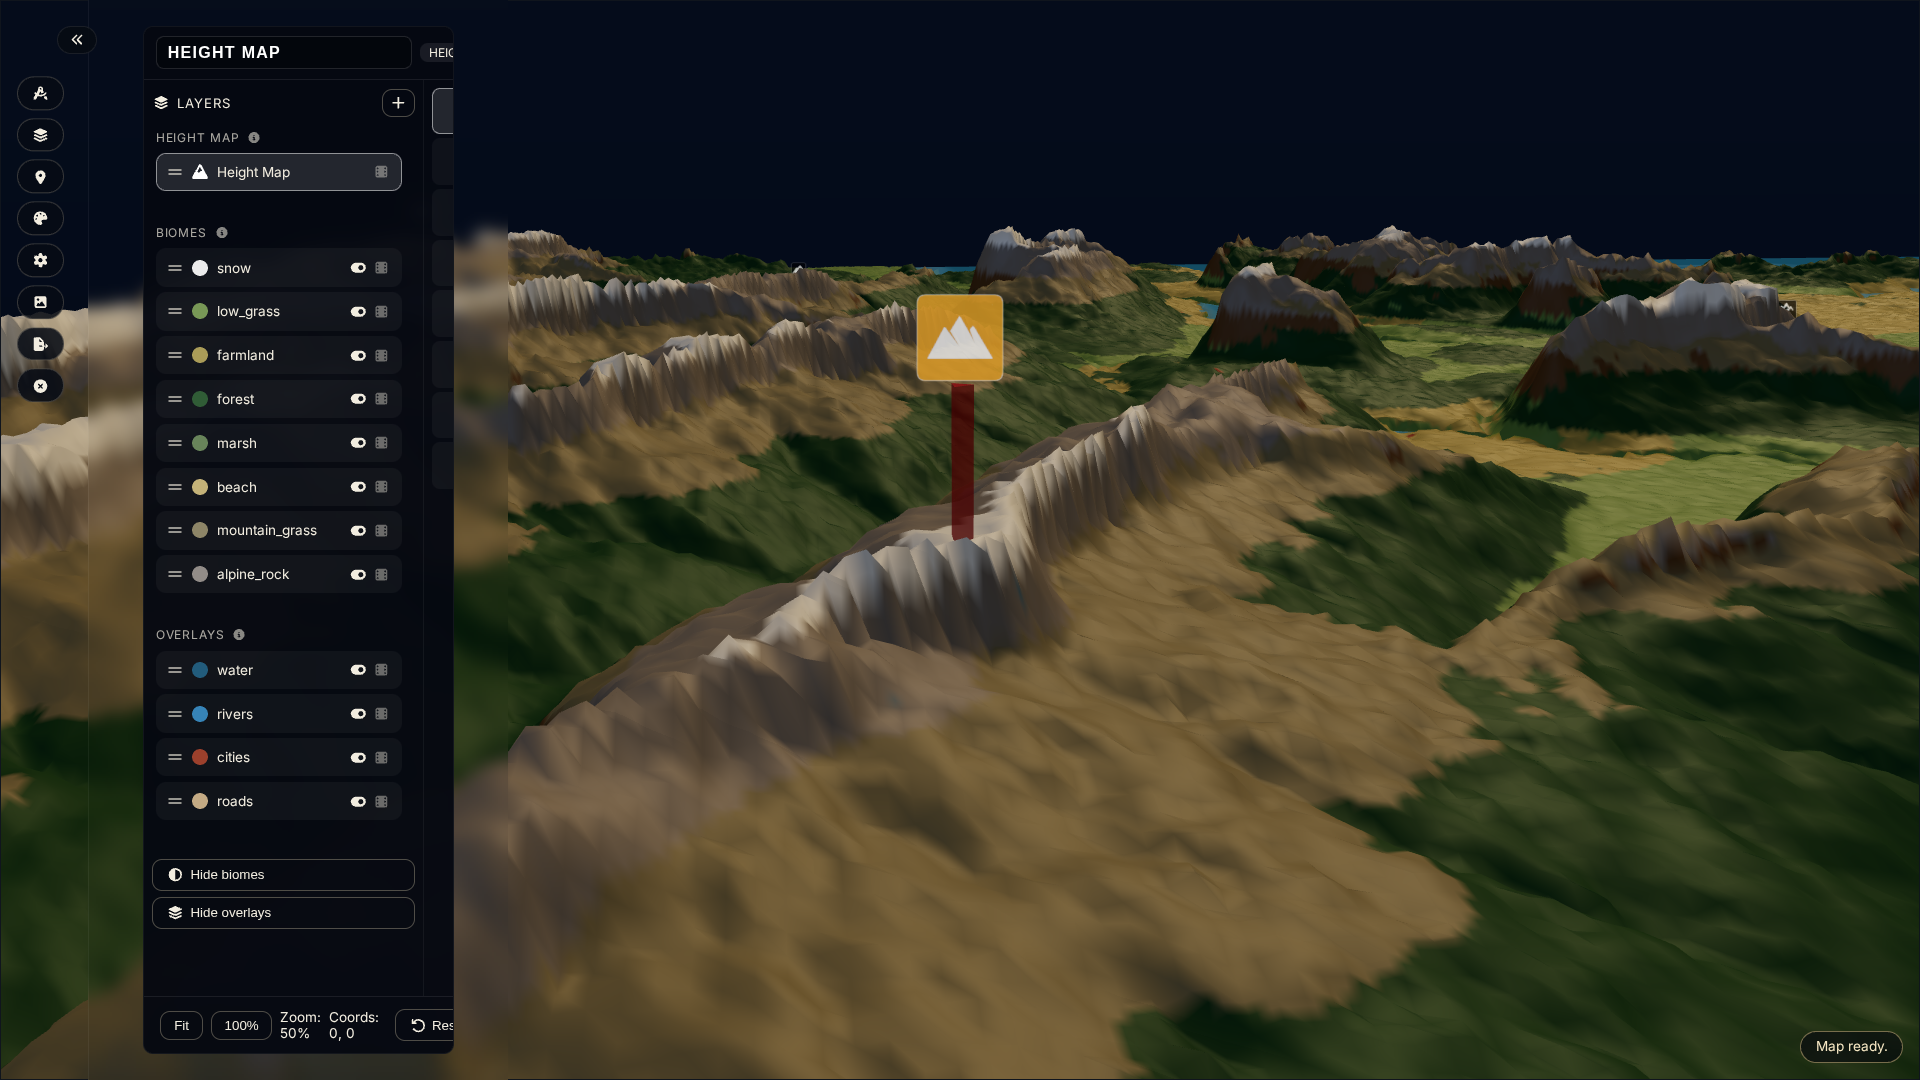
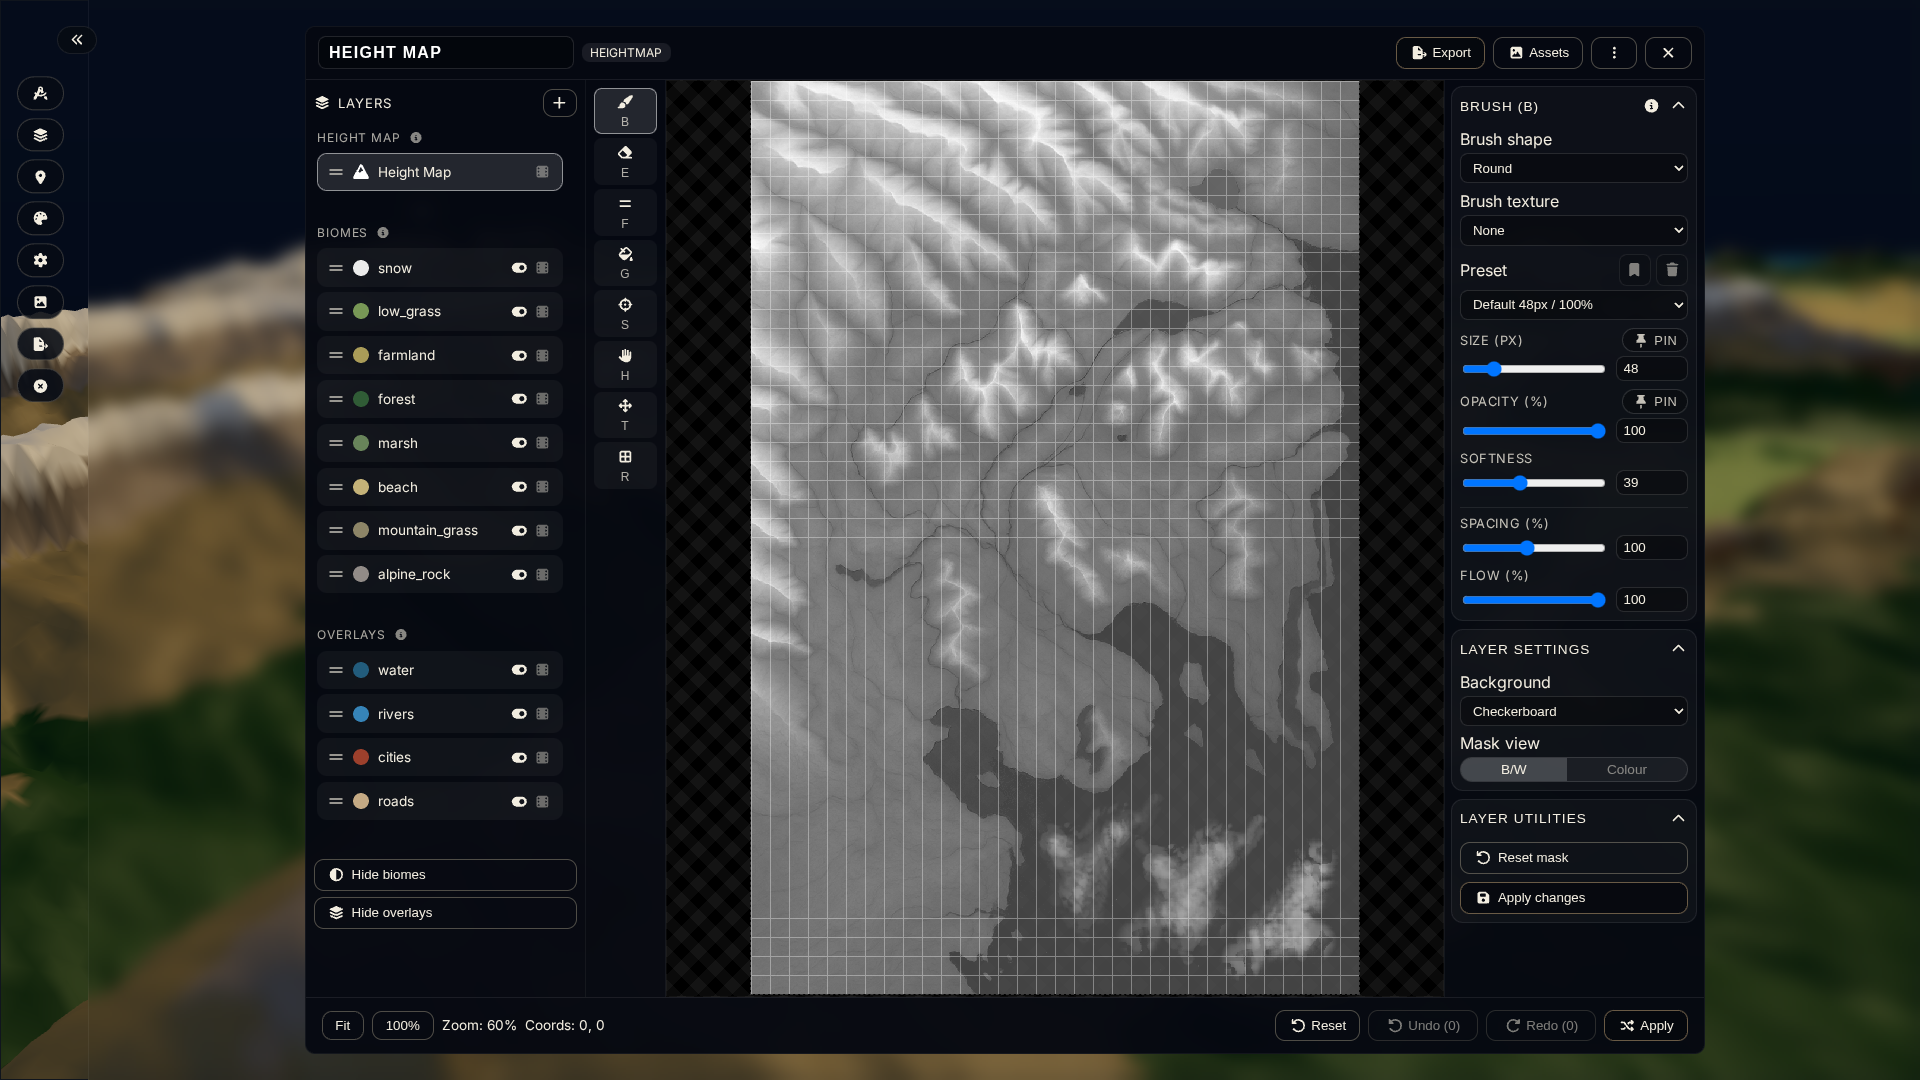
Improve layer editor viewport fitting, padding and layout

diff --git a/editor/src/components/layers/LayerMaskEditor.vue b/editor/src/components/layers/LayerMaskEditor.vue
@@ -388,10 +388,15 @@ const displaySize = computed(() => ({
 }))
 const viewportSize = ref({ width: 0, height: 0 })
 const currentViewState = ref<ViewState>({ zoom: 1, centerX: 0.5, centerY: 0.5 })
-const viewportPadding = computed(() => ({
-  x: viewportSize.value.width / 2,
-  y: viewportSize.value.height / 2
-}))
+
+function computeViewportPadding(width: number, height: number) {
+  return {
+    x: width / 2,
+    y: height / 2
+  }
+}
+
+const viewportPadding = computed(() => computeViewportPadding(viewportSize.value.width, viewportSize.value.height))
 const totalCanvasSize = computed(() => ({
   width: displaySize.value.width + viewportPadding.value.x * 2,
   height: displaySize.value.height + viewportPadding.value.y * 2
@@ -422,10 +427,10 @@ function clampZoom(value: number) {
 }
 
 function getPaddingOffsets() {
-  return {
-    x: viewportPadding.value.x,
-    y: viewportPadding.value.y
-  }
+  const viewport = viewportRef.value
+  const width = viewportSize.value.width || viewport?.clientWidth || 0
+  const height = viewportSize.value.height || viewport?.clientHeight || 0
+  return computeViewportPadding(width, height)
 }
 
 function isViewportReady(target = viewportRef.value) {
@@ -2125,27 +2130,46 @@ function fitView() {
   const viewport = viewportRef.value
   const { width, height } = canvasDimensions.value
   if (!viewport || !width || !height) {
-    zoom.value = 1
-    emit('zoom-change', zoom.value)
+    if (viewport) {
+      requestAnimationFrame(() => fitView())
+    } else {
+      zoom.value = 1
+      emit('zoom-change', zoom.value)
+    }
     return
   }
-  const availableWidth = Math.max(1, viewport.clientWidth)
-  const availableHeight = Math.max(1, viewport.clientHeight)
-  const scaleX = availableWidth / width
-  const scaleY = availableHeight / height
-  const target = clampZoom(Math.min(scaleX, scaleY))
-  zoom.value = target
-  const displayWidth = width * target
-  const displayHeight = height * target
-  const { x: paddingX, y: paddingY } = getPaddingOffsets()
-  const centerLeft = paddingX + displayWidth / 2 - viewport.clientWidth / 2
-  const centerTop = paddingY + displayHeight / 2 - viewport.clientHeight / 2
-  viewport.scrollLeft = Math.max(0, centerLeft)
-  viewport.scrollTop = Math.max(0, centerTop)
-  emit('zoom-change', zoom.value)
-  viewInitialized = true
-  suppressViewStateEmits = false
-  emitViewStateChange({ force: true })
+  if (viewport.clientWidth === 0 || viewport.clientHeight === 0) {
+    requestAnimationFrame(() => fitView())
+    return
+  }
+  const applyFit = (emitZoom: boolean) => {
+    const availableWidth = Math.max(1, viewport.clientWidth)
+    const availableHeight = Math.max(1, viewport.clientHeight)
+    const scaleX = availableWidth / width
+    const scaleY = availableHeight / height
+    const target = clampZoom(Math.min(scaleX, scaleY))
+    zoom.value = target
+    const displayWidth = width * target
+    const displayHeight = height * target
+    const { x: paddingX, y: paddingY } = getPaddingOffsets()
+    const centerLeft = paddingX + displayWidth / 2 - viewport.clientWidth / 2
+    const centerTop = paddingY + displayHeight / 2 - viewport.clientHeight / 2
+    viewport.scrollLeft = Math.max(0, centerLeft)
+    viewport.scrollTop = Math.max(0, centerTop)
+    emit('cursor-move', { x: width / 2, y: height / 2 })
+    if (emitZoom) {
+      emit('zoom-change', zoom.value)
+      viewInitialized = true
+      suppressViewStateEmits = false
+      emitViewStateChange({ force: true })
+    }
+  }
+
+  applyFit(true)
+  requestAnimationFrame(() => {
+    if (!viewportRef.value) return
+    applyNormalizedViewState({ zoom: zoom.value, centerX: 0.5, centerY: 0.5 }, false)
+  })
 }
 
 function setZoom(value: number) {
@@ -2197,6 +2221,7 @@ function applyNormalizedViewState(target: ViewState, emitChange: boolean) {
   const targetTop = paddingY + target.centerY * displayHeight - viewport.clientHeight / 2
   viewport.scrollLeft = Math.max(0, targetLeft)
   viewport.scrollTop = Math.max(0, targetTop)
+  emit('cursor-move', { x: width * target.centerX, y: height * target.centerY })
   if (!emitChange) {
     currentViewState.value = target
   }

diff --git a/editor/src/components/panels/LayerEditor.vue b/editor/src/components/panels/LayerEditor.vue
@@ -2009,12 +2009,28 @@ function handleMaskReady() {
   const pendingState = props.pendingViewState ?? null
   maskEditorRef.value.suspendViewTracking()
   if (pendingState) {
+    const centerAtOrigin =
+      typeof pendingState.centerX === 'number' &&
+      typeof pendingState.centerY === 'number' &&
+      pendingState.centerX <= 0.01 &&
+      pendingState.centerY <= 0.01
     const shouldAutoFit =
-      pendingState.zoom <= 1 &&
-      pendingState.centerX <= 0.05 &&
-      pendingState.centerY <= 0.05
+      centerAtOrigin ||
+      (pendingState.zoom <= 1 &&
+        pendingState.centerX <= 0.05 &&
+        pendingState.centerY <= 0.05)
     if (shouldAutoFit) {
       fitCanvasView()
+      const postFitState = maskEditorRef.value.getViewState()
+      if (postFitState.centerX <= 0.01 && postFitState.centerY <= 0.01) {
+        setTimeout(() => {
+          if (!maskEditorRef.value) return
+          const nextState = maskEditorRef.value.getViewState()
+          if (nextState.centerX <= 0.01 && nextState.centerY <= 0.01) {
+            fitCanvasView()
+          }
+        }, 50)
+      }
       if (currentId) {
         const viewState = maskEditorRef.value.getViewState()
         viewStateCache.set(currentId, viewState)
@@ -2037,6 +2053,16 @@ function handleMaskReady() {
       emit('view-state-change', { id: currentId, state: cachedState })
     } else {
       fitCanvasView()
+      const postFitState = maskEditorRef.value.getViewState()
+      if (postFitState.centerX <= 0.01 && postFitState.centerY <= 0.01) {
+        setTimeout(() => {
+          if (!maskEditorRef.value) return
+          const nextState = maskEditorRef.value.getViewState()
+          if (nextState.centerX <= 0.01 && nextState.centerY <= 0.01) {
+            fitCanvasView()
+          }
+        }, 50)
+      }
     }
   }
   maskEditorRef.value.resumeViewTracking()
@@ -2364,15 +2390,12 @@ function clamp(value: number, min: number, max: number) {
 
 <style scoped>
 .layer-editor {
-  --layer-editor-left-gap: 3rem;
   position: fixed;
   inset: 0;
   z-index: 200;
   display: flex;
   justify-content: flex-end;
   pointer-events: none;
-  padding: 0.6rem;
-  padding-left: var(--layer-editor-left-gap);
 }
 
 .layer-editor--inline {
@@ -2381,9 +2404,6 @@ function clamp(value: number, min: number, max: number) {
   z-index: auto;
   display: flex;
   justify-content: flex-start;
-  padding: 0.6rem;
-  padding-left: max(2rem, 2vw);
-  padding-right: max(1rem, 2vw);
   pointer-events: auto;
   width: 100%;
   height: 100%;
@@ -2394,7 +2414,7 @@ function clamp(value: number, min: number, max: number) {
   display: flex;
   flex-direction: column;
   margin: 0;
-  width: min(1400px, calc(100vw - var(--layer-editor-left-gap) - 1.2rem));
+  width: 100%;
   height: calc(100vh - 1.2rem);
   background: rgba(5, 8, 17, 0.96);
   border-radius: 10px;
@@ -2404,7 +2424,6 @@ function clamp(value: number, min: number, max: number) {
 }
 
 .layer-editor--inline .layer-editor__panel {
-  width: min(1400px, 100%);
   height: 100%;
   max-height: 100%;
   margin: 0 auto;
@@ -2971,7 +2990,6 @@ function clamp(value: number, min: number, max: number) {
 
 @media (max-width: 1100px) {
   .layer-editor {
-    --layer-editor-left-gap: 1rem;
     padding-left: 1rem;
   }
 

diff --git a/tests/editor-user-guide.spec.ts b/tests/editor-user-guide.spec.ts
@@ -213,6 +213,23 @@ test.describe('Terrain Editor : Navigation', () => {
 
     const editor = await openLayerEditorForLayer(page, 'Height Map')
     await expect(editor.locator('.layer-editor__badge')).toContainText(/height/i)
+    await page.waitForFunction(() => {
+      const panel = document.querySelector('.layer-editor') as HTMLElement | null
+      if (!panel) return false
+      const width = panel.offsetWidth
+      const height = panel.offsetHeight
+      return width >= 520 && height >= 500
+    })
+    const fitButton = page.getByRole('button', { name: 'Fit' }).first()
+    await fitButton.click()
+    await page.waitForFunction(() => {
+      const viewport = document.querySelector('.layer-mask-editor__viewport') as HTMLElement | null
+      if (!viewport) return false
+      if (viewport.scrollWidth <= viewport.clientWidth && viewport.scrollHeight <= viewport.clientHeight) {
+        return true
+      }
+      return viewport.scrollLeft > 0 || viewport.scrollTop > 0
+    })
     await page.waitForTimeout(750)
 
     await captureDocumentationScreenshot(page, 'layer-editor-height-map')

diff --git a/editor/src/composables/useUrlState.ts b/editor/src/composables/useUrlState.ts
@@ -116,7 +116,11 @@ function parseInitialState(): InitialRouteState {
       const zoom = Number.isFinite(zoomRaw) ? zoomRaw : 1
       const centerX = Number.isFinite(centerXRaw) ? centerXRaw : 0.5
       const centerY = Number.isFinite(centerYRaw) ? centerYRaw : 0.5
-      layerViewState = { zoom, centerX, centerY }
+      if (centerX <= 0.001 && centerY <= 0.001) {
+        layerViewState = null
+      } else {
+        layerViewState = { zoom, centerX, centerY }
+      }
     }
   }
   const locationId = params.get('location')

diff --git a/editor/src/components/PanelDock.vue b/editor/src/components/PanelDock.vue
@@ -63,7 +63,6 @@ defineExpose({
   width: min(45%, 420px);
   min-width: 300px;
   max-width: 50%;
-  transition: width 0.2s ease;
   border-left: 1px solid rgba(255, 255, 255, 0.05);
   backdrop-filter: blur(8px);
   height: 100vh;
@@ -107,7 +106,6 @@ defineExpose({
   color: inherit;
   cursor: pointer;
   z-index: 700;
-  transition: background 0.2s ease, border-color 0.2s ease;
 }
 
 .panel-dock__toggle:hover {
